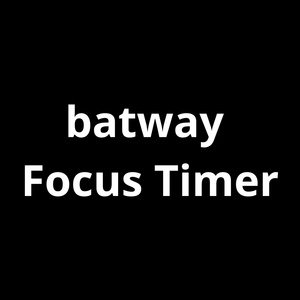
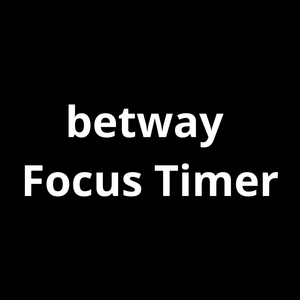
Rebrand to Betway, fix mobile layout, add portrait orientation for Android/Xiaomi

Changed region(s): [[0.21, 0.36, 0.75, 0.48]]

diff --git a/css/tailwind.css b/css/tailwind.css
@@ -1,1 +1,1 @@
-*,:after,:before{--tw-border-spacing-x:0;--tw-border-spacing-y:0;--tw-translate-x:0;--tw-translate-y:0;--tw-rotate:0;--tw-skew-x:0;--tw-skew-y:0;--tw-scale-x:1;--tw-scale-y:1;--tw-pan-x: ;--tw-pan-y: ;--tw-pinch-zoom: ;--tw-scroll-snap-strictness:proximity;--tw-gradient-from-position: ;--tw-gradient-via-position: ;--tw-gradient-to-position: ;--tw-ordinal: ;--tw-slashed-zero: ;--tw-numeric-figure: ;--tw-numeric-spacing: ;--tw-numeric-fraction: ;--tw-ring-inset: ;--tw-ring-offset-width:0px;--tw-ring-offset-color:#fff;--tw-ring-color:rgba(59,130,246,.5);--tw-ring-offset-shadow:0 0 #0000;--tw-ring-shadow:0 0 #0000;--tw-shadow:0 0 #0000;--tw-shadow-colored:0 0 #0000;--tw-blur: ;--tw-brightness: ;--tw-contrast: ;--tw-grayscale: ;--tw-hue-rotate: ;--tw-invert: ;--tw-saturate: ;--tw-sepia: ;--tw-drop-shadow: ;--tw-backdrop-blur: ;--tw-backdrop-brightness: ;--tw-backdrop-contrast: ;--tw-backdrop-grayscale: ;--tw-backdrop-hue-rotate: ;--tw-backdrop-invert: ;--tw-backdrop-opacity: ;--tw-backdrop-saturate: ;--tw-backdrop-sepia: ;--tw-contain-size: ;--tw-contain-layout: ;--tw-contain-paint: ;--tw-contain-style: }::backdrop{--tw-border-spacing-x:0;--tw-border-spacing-y:0;--tw-translate-x:0;--tw-translate-y:0;--tw-rotate:0;--tw-skew-x:0;--tw-skew-y:0;--tw-scale-x:1;--tw-scale-y:1;--tw-pan-x: ;--tw-pan-y: ;--tw-pinch-zoom: ;--tw-scroll-snap-strictness:proximity;--tw-gradient-from-position: ;--tw-gradient-via-position: ;--tw-gradient-to-position: ;--tw-ordinal: ;--tw-slashed-zero: ;--tw-numeric-figure: ;--tw-numeric-spacing: ;--tw-numeric-fraction: ;--tw-ring-inset: ;--tw-ring-offset-width:0px;--tw-ring-offset-color:#fff;--tw-ring-color:rgba(59,130,246,.5);--tw-ring-offset-shadow:0 0 #0000;--tw-ring-shadow:0 0 #0000;--tw-shadow:0 0 #0000;--tw-shadow-colored:0 0 #0000;--tw-blur: ;--tw-brightness: ;--tw-contrast: ;--tw-grayscale: ;--tw-hue-rotate: ;--tw-invert: ;--tw-saturate: ;--tw-sepia: ;--tw-drop-shadow: ;--tw-backdrop-blur: ;--tw-backdrop-brightness: ;--tw-backdrop-contrast: ;--tw-backdrop-grayscale: ;--tw-backdrop-hue-rotate: ;--tw-backdrop-invert: ;--tw-backdrop-opacity: ;--tw-backdrop-saturate: ;--tw-backdrop-sepia: ;--tw-contain-size: ;--tw-contain-layout: ;--tw-contain-paint: ;--tw-contain-style: }/*! tailwindcss v3.4.18 | MIT License | https://tailwindcss.com*/*,:after,:before{box-sizing:border-box;border:0 solid #e5e7eb}:after,:before{--tw-content:""}:host,html{line-height:1.5;-webkit-text-size-adjust:100%;-moz-tab-size:4;-o-tab-size:4;tab-size:4;font-family:ui-sans-serif,system-ui,sans-serif,Apple Color Emoji,Segoe UI Emoji,Segoe UI Symbol,Noto Color Emoji;font-feature-settings:normal;font-variation-settings:normal;-webkit-tap-highlight-color:transparent}body{margin:0;line-height:inherit}hr{height:0;color:inherit;border-top-width:1px}abbr:where([title]){-webkit-text-decoration:underline dotted;text-decoration:underline dotted}h1,h2,h3,h4,h5,h6{font-size:inherit;font-weight:inherit}a{color:inherit;text-decoration:inherit}b,strong{font-weight:bolder}code,kbd,pre,samp{font-family:ui-monospace,SFMono-Regular,Menlo,Monaco,Consolas,Liberation Mono,Courier New,monospace;font-feature-settings:normal;font-variation-settings:normal;font-size:1em}small{font-size:80%}sub,sup{font-size:75%;line-height:0;position:relative;vertical-align:baseline}sub{bottom:-.25em}sup{top:-.5em}table{text-indent:0;border-color:inherit;border-collapse:collapse}button,input,optgroup,select,textarea{font-family:inherit;font-feature-settings:inherit;font-variation-settings:inherit;font-size:100%;font-weight:inherit;line-height:inherit;letter-spacing:inherit;color:inherit;margin:0;padding:0}button,select{text-transform:none}button,input:where([type=button]),input:where([type=reset]),input:where([type=submit]){-webkit-appearance:button;background-color:transparent;background-image:none}:-moz-focusring{outline:auto}:-moz-ui-invalid{box-shadow:none}progress{vertical-align:baseline}::-webkit-inner-spin-button,::-webkit-outer-spin-button{height:auto}[type=search]{-webkit-appearance:textfield;outline-offset:-2px}::-webkit-search-decoration{-webkit-appearance:none}::-webkit-file-upload-button{-webkit-appearance:button;font:inherit}summary{display:list-item}blockquote,dd,dl,figure,h1,h2,h3,h4,h5,h6,hr,p,pre{margin:0}fieldset{margin:0}fieldset,legend{padding:0}menu,ol,ul{list-style:none;margin:0;padding:0}dialog{padding:0}textarea{resize:vertical}input::-moz-placeholder,textarea::-moz-placeholder{opacity:1;color:#9ca3af}input::placeholder,textarea::placeholder{opacity:1;color:#9ca3af}[role=button],button{cursor:pointer}:disabled{cursor:default}audio,canvas,embed,iframe,img,object,svg,video{display:block;vertical-align:middle}img,video{max-width:100%;height:auto}[hidden]:where(:not([hidden=until-found])){display:none}.container{width:100%}@media (min-width:640px){.container{max-width:640px}}@media (min-width:768px){.container{max-width:768px}}@media (min-width:1024px){.container{max-width:1024px}}@media (min-width:1280px){.container{max-width:1280px}}@media (min-width:1536px){.container{max-width:1536px}}.visible{visibility:visible}.fixed{position:fixed}.absolute{position:absolute}.relative{position:relative}.inset-0{inset:0}.right-4{right:1rem}.top-4{top:1rem}.z-50{z-index:50}.col-span-12{grid-column:span 12/span 12}.mx-auto{margin-left:auto;margin-right:auto}.mb-1{margin-bottom:.25rem}.mb-2{margin-bottom:.5rem}.mb-3{margin-bottom:.75rem}.mb-4{margin-bottom:1rem}.mb-6{margin-bottom:1.5rem}.mb-8{margin-bottom:2rem}.mr-2{margin-right:.5rem}.mt-0\.5{margin-top:.125rem}.mt-4{margin-top:1rem}.mt-6{margin-top:1.5rem}.mt-8{margin-top:2rem}.block{display:block}.inline-block{display:inline-block}.flex{display:flex}.grid{display:grid}.hidden{display:none}.h-10{height:2.5rem}.h-3{height:.75rem}.h-6{height:1.5rem}.h-64{height:16rem}.h-8{height:2rem}.min-h-screen{min-height:100vh}.w-10{width:2.5rem}.w-16{width:4rem}.w-3{width:.75rem}.w-6{width:1.5rem}.w-64{width:16rem}.w-8{width:2rem}.w-full{width:100%}.max-w-4xl{max-width:56rem}.max-w-7xl{max-width:80rem}.max-w-md{max-width:28rem}.flex-shrink-0{flex-shrink:0}.transform{transform:translate(var(--tw-translate-x),var(--tw-translate-y)) rotate(var(--tw-rotate)) skewX(var(--tw-skew-x)) skewY(var(--tw-skew-y)) scaleX(var(--tw-scale-x)) scaleY(var(--tw-scale-y))}.grid-cols-1{grid-template-columns:repeat(1,minmax(0,1fr))}.grid-cols-12{grid-template-columns:repeat(12,minmax(0,1fr))}.flex-col{flex-direction:column}.flex-wrap{flex-wrap:wrap}.items-start{align-items:flex-start}.items-center{align-items:center}.justify-center{justify-content:center}.justify-between{justify-content:space-between}.gap-4{gap:1rem}.gap-6{gap:1.5rem}.gap-8{gap:2rem}.space-x-1>:not([hidden])~:not([hidden]){--tw-space-x-reverse:0;margin-right:calc(.25rem*var(--tw-space-x-reverse));margin-left:calc(.25rem*(1 - var(--tw-space-x-reverse)))}.space-x-2>:not([hidden])~:not([hidden]){--tw-space-x-reverse:0;margin-right:calc(.5rem*var(--tw-space-x-reverse));margin-left:calc(.5rem*(1 - var(--tw-space-x-reverse)))}.space-x-3>:not([hidden])~:not([hidden]){--tw-space-x-reverse:0;margin-right:calc(.75rem*var(--tw-space-x-reverse));margin-left:calc(.75rem*(1 - var(--tw-space-x-reverse)))}.space-x-4>:not([hidden])~:not([hidden]){--tw-space-x-reverse:0;margin-right:calc(1rem*var(--tw-space-x-reverse));margin-left:calc(1rem*(1 - var(--tw-space-x-reverse)))}.space-y-1>:not([hidden])~:not([hidden]){--tw-space-y-reverse:0;margin-top:calc(.25rem*(1 - var(--tw-space-y-reverse)));margin-bottom:calc(.25rem*var(--tw-space-y-reverse))}.space-y-2>:not([hidden])~:not([hidden]){--tw-space-y-reverse:0;margin-top:calc(.5rem*(1 - var(--tw-space-y-reverse)));margin-bottom:calc(.5rem*var(--tw-space-y-reverse))}.space-y-3>:not([hidden])~:not([hidden]){--tw-space-y-reverse:0;margin-top:calc(.75rem*(1 - var(--tw-space-y-reverse)));margin-bottom:calc(.75rem*var(--tw-space-y-reverse))}.space-y-4>:not([hidden])~:not([hidden]){--tw-space-y-reverse:0;margin-top:calc(1rem*(1 - var(--tw-space-y-reverse)));margin-bottom:calc(1rem*var(--tw-space-y-reverse))}.space-y-6>:not([hidden])~:not([hidden]){--tw-space-y-reverse:0;margin-top:calc(1.5rem*(1 - var(--tw-space-y-reverse)));margin-bottom:calc(1.5rem*var(--tw-space-y-reverse))}.rounded{border-radius:.25rem}.rounded-full{border-radius:9999px}.rounded-lg{border-radius:.5rem}.rounded-xl{border-radius:.75rem}.border{border-width:1px}.border-2{border-width:2px}.border-b{border-bottom-width:1px}.border-t{border-top-width:1px}.border-gray-600{--tw-border-opacity:1;border-color:rgb(75 85 99/var(--tw-border-opacity,1))}.border-gray-700{--tw-border-opacity:1;border-color:rgb(55 65 81/var(--tw-border-opacity,1))}.border-neon-green\/30{border-color:rgba(16,185,129,.3)}.border-transparent{border-color:transparent}.border-white{--tw-border-opacity:1;border-color:rgb(255 255 255/var(--tw-border-opacity,1))}.bg-black{--tw-bg-opacity:1;background-color:rgb(0 0 0/var(--tw-bg-opacity,1))}.bg-gray-700{--tw-bg-opacity:1;background-color:rgb(55 65 81/var(--tw-bg-opacity,1))}.bg-gray-800{--tw-bg-opacity:1;background-color:rgb(31 41 55/var(--tw-bg-opacity,1))}.bg-gray-900{--tw-bg-opacity:1;background-color:rgb(17 24 39/var(--tw-bg-opacity,1))}.bg-neon-blue{--tw-bg-opacity:1;background-color:rgb(59 130 246/var(--tw-bg-opacity,1))}.bg-neon-blue\/20{background-color:rgba(59,130,246,.2)}.bg-neon-green{--tw-bg-opacity:1;background-color:rgb(16 185 129/var(--tw-bg-opacity,1))}.bg-neon-green\/10{background-color:rgba(16,185,129,.1)}.bg-neon-green\/20{background-color:rgba(16,185,129,.2)}.bg-neon-purple{--tw-bg-opacity:1;background-color:rgb(139 92 246/var(--tw-bg-opacity,1))}.bg-neon-purple\/20{background-color:rgba(139,92,246,.2)}.bg-red-500{--tw-bg-opacity:1;background-color:rgb(239 68 68/var(--tw-bg-opacity,1))}.bg-yellow-500{--tw-bg-opacity:1;background-color:rgb(234 179 8/var(--tw-bg-opacity,1))}.bg-opacity-75{--tw-bg-opacity:0.75}.bg-gradient-to-br{background-image:linear-gradient(to bottom right,var(--tw-gradient-stops))}.bg-gradient-to-r{background-image:linear-gradient(to right,var(--tw-gradient-stops))}.from-gray-600{--tw-gradient-from:#4b5563 var(--tw-gradient-from-position);--tw-gradient-to:rgba(75,85,99,0) var(--tw-gradient-to-position);--tw-gradient-stops:var(--tw-gradient-from),var(--tw-gradient-to)}.from-gray-900{--tw-gradient-from:#111827 var(--tw-gradient-from-position);--tw-gradient-to:rgba(17,24,39,0) var(--tw-gradient-to-position);--tw-gradient-stops:var(--tw-gradient-from),var(--tw-gradient-to)}.from-neon-blue{--tw-gradient-from:#3b82f6 var(--tw-gradient-from-position);--tw-gradient-to:rgba(59,130,246,0) var(--tw-gradient-to-position);--tw-gradient-stops:var(--tw-gradient-from),var(--tw-gradient-to)}.from-neon-green{--tw-gradient-from:#10b981 var(--tw-gradient-from-position);--tw-gradient-to:rgba(16,185,129,0) var(--tw-gradient-to-position);--tw-gradient-stops:var(--tw-gradient-from),var(--tw-gradient-to)}.from-red-500{--tw-gradient-from:#ef4444 var(--tw-gradient-from-position);--tw-gradient-to:rgba(239,68,68,0) var(--tw-gradient-to-position);--tw-gradient-stops:var(--tw-gradient-from),var(--tw-gradient-to)}.via-gray-800{--tw-gradient-to:rgba(31,41,55,0) var(--tw-gradient-to-position);--tw-gradient-stops:var(--tw-gradient-from),#1f2937 var(--tw-gradient-via-position),var(--tw-gradient-to)}.to-gray-700{--tw-gradient-to:#374151 var(--tw-gradient-to-position)}.to-gray-900{--tw-gradient-to:#111827 var(--tw-gradient-to-position)}.to-green-600{--tw-gradient-to:#16a34a var(--tw-gradient-to-position)}.to-neon-blue{--tw-gradient-to:#3b82f6 var(--tw-gradient-to-position)}.to-purple-600{--tw-gradient-to:#9333ea var(--tw-gradient-to-position)}.to-red-600{--tw-gradient-to:#dc2626 var(--tw-gradient-to-position)}.p-4{padding:1rem}.p-6{padding:1.5rem}.p-8{padding:2rem}.px-2{padding-left:.5rem;padding-right:.5rem}.px-3{padding-left:.75rem;padding-right:.75rem}.px-4{padding-left:1rem;padding-right:1rem}.px-6{padding-left:1.5rem;padding-right:1.5rem}.px-8{padding-left:2rem;padding-right:2rem}.py-1{padding-top:.25rem;padding-bottom:.25rem}.py-12{padding-top:3rem;padding-bottom:3rem}.py-2{padding-top:.5rem;padding-bottom:.5rem}.py-3{padding-top:.75rem;padding-bottom:.75rem}.py-4{padding-top:1rem;padding-bottom:1rem}.py-6{padding-top:1.5rem;padding-bottom:1.5rem}.py-8{padding-top:2rem;padding-bottom:2rem}.pt-4{padding-top:1rem}.text-center{text-align:center}.font-inter{font-family:Inter,sans-serif}.text-2xl{font-size:1.5rem;line-height:2rem}.text-3xl{font-size:1.875rem;line-height:2.25rem}.text-4xl{font-size:2.25rem;line-height:2.5rem}.text-6xl{font-size:3.75rem;line-height:1}.text-lg{font-size:1.125rem;line-height:1.75rem}.text-sm{font-size:.875rem;line-height:1.25rem}.text-xl{font-size:1.25rem;line-height:1.75rem}.text-xs{font-size:.75rem;line-height:1rem}.font-black{font-weight:900}.font-bold{font-weight:700}.font-medium{font-weight:500}.font-semibold{font-weight:600}.leading-relaxed{line-height:1.625}.text-gray-300{--tw-text-opacity:1;color:rgb(209 213 219/var(--tw-text-opacity,1))}.text-gray-400{--tw-text-opacity:1;color:rgb(156 163 175/var(--tw-text-opacity,1))}.text-gray-900{--tw-text-opacity:1;color:rgb(17 24 39/var(--tw-text-opacity,1))}.text-neon-blue{--tw-text-opacity:1;color:rgb(59 130 246/var(--tw-text-opacity,1))}.text-neon-green{--tw-text-opacity:1;color:rgb(16 185 129/var(--tw-text-opacity,1))}.text-neon-purple{--tw-text-opacity:1;color:rgb(139 92 246/var(--tw-text-opacity,1))}.text-red-500{--tw-text-opacity:1;color:rgb(239 68 68/var(--tw-text-opacity,1))}.text-white{--tw-text-opacity:1;color:rgb(255 255 255/var(--tw-text-opacity,1))}.text-yellow-500{--tw-text-opacity:1;color:rgb(234 179 8/var(--tw-text-opacity,1))}.underline{text-decoration-line:underline}.opacity-100{opacity:1}.opacity-50{opacity:.5}.ring{--tw-ring-offset-shadow:var(--tw-ring-inset) 0 0 0 var(--tw-ring-offset-width) var(--tw-ring-offset-color);--tw-ring-shadow:var(--tw-ring-inset) 0 0 0 calc(3px + var(--tw-ring-offset-width)) var(--tw-ring-color);box-shadow:var(--tw-ring-offset-shadow),var(--tw-ring-shadow),var(--tw-shadow,0 0 #0000)}.transition-all{transition-property:all;transition-timing-function:cubic-bezier(.4,0,.2,1);transition-duration:.15s}.transition-colors{transition-property:color,background-color,border-color,text-decoration-color,fill,stroke;transition-timing-function:cubic-bezier(.4,0,.2,1);transition-duration:.15s}::-webkit-scrollbar{display:none}body{font-family:Inter,sans-serif}.neon-glow{box-shadow:0 0 20px rgba(34,197,94,.3)}.neon-text{text-shadow:0 0 10px rgba(34,197,94,.5)}.progress-ring{transform:rotate(-90deg);transition:stroke-dashoffset .3s ease}.timer-animation{animation:pulse 2s infinite}@keyframes pulse{0%,to{transform:scale(1)}50%{transform:scale(1.05)}}.gradient-border{background:linear-gradient(45deg,#10b981,#3b82f6);padding:2px;border-radius:12px}.gradient-border-content{background:#111827;border-radius:10px}.hover\:scale-105:hover{--tw-scale-x:1.05;--tw-scale-y:1.05;transform:translate(var(--tw-translate-x),var(--tw-translate-y)) rotate(var(--tw-rotate)) skewX(var(--tw-skew-x)) skewY(var(--tw-skew-y)) scaleX(var(--tw-scale-x)) scaleY(var(--tw-scale-y))}.hover\:border-white:hover{--tw-border-opacity:1;border-color:rgb(255 255 255/var(--tw-border-opacity,1))}.hover\:bg-gray-600:hover{--tw-bg-opacity:1;background-color:rgb(75 85 99/var(--tw-bg-opacity,1))}.hover\:bg-green-600:hover{--tw-bg-opacity:1;background-color:rgb(22 163 74/var(--tw-bg-opacity,1))}.hover\:from-blue-600:hover{--tw-gradient-from:#2563eb var(--tw-gradient-from-position);--tw-gradient-to:rgba(37,99,235,0) var(--tw-gradient-to-position);--tw-gradient-stops:var(--tw-gradient-from),var(--tw-gradient-to)}.hover\:from-gray-700:hover{--tw-gradient-from:#374151 var(--tw-gradient-from-position);--tw-gradient-to:rgba(55,65,81,0) var(--tw-gradient-to-position);--tw-gradient-stops:var(--tw-gradient-from),var(--tw-gradient-to)}.hover\:from-green-600:hover{--tw-gradient-from:#16a34a var(--tw-gradient-from-position);--tw-gradient-to:rgba(22,163,74,0) var(--tw-gradient-to-position);--tw-gradient-stops:var(--tw-gradient-from),var(--tw-gradient-to)}.hover\:from-red-600:hover{--tw-gradient-from:#dc2626 var(--tw-gradient-from-position);--tw-gradient-to:rgba(220,38,38,0) var(--tw-gradient-to-position);--tw-gradient-stops:var(--tw-gradient-from),var(--tw-gradient-to)}.hover\:to-gray-800:hover{--tw-gradient-to:#1f2937 var(--tw-gradient-to-position)}.hover\:to-green-700:hover{--tw-gradient-to:#15803d var(--tw-gradient-to-position)}.hover\:to-purple-700:hover{--tw-gradient-to:#7e22ce var(--tw-gradient-to-position)}.hover\:to-red-700:hover{--tw-gradient-to:#b91c1c var(--tw-gradient-to-position)}.hover\:text-neon-green:hover{--tw-text-opacity:1;color:rgb(16 185 129/var(--tw-text-opacity,1))}.hover\:text-white:hover{--tw-text-opacity:1;color:rgb(255 255 255/var(--tw-text-opacity,1))}.hover\:underline:hover{text-decoration-line:underline}.focus\:border-neon-green:focus{--tw-border-opacity:1;border-color:rgb(16 185 129/var(--tw-border-opacity,1))}.focus\:outline-none:focus{outline:2px solid transparent;outline-offset:2px}@media (min-width:768px){.md\:mb-0{margin-bottom:0}.md\:grid-cols-2{grid-template-columns:repeat(2,minmax(0,1fr))}.md\:flex-row{flex-direction:row}}@media (min-width:1024px){.lg\:col-span-4{grid-column:span 4/span 4}.lg\:col-span-8{grid-column:span 8/span 8}}
+*,:after,:before{--tw-border-spacing-x:0;--tw-border-spacing-y:0;--tw-translate-x:0;--tw-translate-y:0;--tw-rotate:0;--tw-skew-x:0;--tw-skew-y:0;--tw-scale-x:1;--tw-scale-y:1;--tw-pan-x: ;--tw-pan-y: ;--tw-pinch-zoom: ;--tw-scroll-snap-strictness:proximity;--tw-gradient-from-position: ;--tw-gradient-via-position: ;--tw-gradient-to-position: ;--tw-ordinal: ;--tw-slashed-zero: ;--tw-numeric-figure: ;--tw-numeric-spacing: ;--tw-numeric-fraction: ;--tw-ring-inset: ;--tw-ring-offset-width:0px;--tw-ring-offset-color:#fff;--tw-ring-color:rgba(59,130,246,.5);--tw-ring-offset-shadow:0 0 #0000;--tw-ring-shadow:0 0 #0000;--tw-shadow:0 0 #0000;--tw-shadow-colored:0 0 #0000;--tw-blur: ;--tw-brightness: ;--tw-contrast: ;--tw-grayscale: ;--tw-hue-rotate: ;--tw-invert: ;--tw-saturate: ;--tw-sepia: ;--tw-drop-shadow: ;--tw-backdrop-blur: ;--tw-backdrop-brightness: ;--tw-backdrop-contrast: ;--tw-backdrop-grayscale: ;--tw-backdrop-hue-rotate: ;--tw-backdrop-invert: ;--tw-backdrop-opacity: ;--tw-backdrop-saturate: ;--tw-backdrop-sepia: ;--tw-contain-size: ;--tw-contain-layout: ;--tw-contain-paint: ;--tw-contain-style: }::backdrop{--tw-border-spacing-x:0;--tw-border-spacing-y:0;--tw-translate-x:0;--tw-translate-y:0;--tw-rotate:0;--tw-skew-x:0;--tw-skew-y:0;--tw-scale-x:1;--tw-scale-y:1;--tw-pan-x: ;--tw-pan-y: ;--tw-pinch-zoom: ;--tw-scroll-snap-strictness:proximity;--tw-gradient-from-position: ;--tw-gradient-via-position: ;--tw-gradient-to-position: ;--tw-ordinal: ;--tw-slashed-zero: ;--tw-numeric-figure: ;--tw-numeric-spacing: ;--tw-numeric-fraction: ;--tw-ring-inset: ;--tw-ring-offset-width:0px;--tw-ring-offset-color:#fff;--tw-ring-color:rgba(59,130,246,.5);--tw-ring-offset-shadow:0 0 #0000;--tw-ring-shadow:0 0 #0000;--tw-shadow:0 0 #0000;--tw-shadow-colored:0 0 #0000;--tw-blur: ;--tw-brightness: ;--tw-contrast: ;--tw-grayscale: ;--tw-hue-rotate: ;--tw-invert: ;--tw-saturate: ;--tw-sepia: ;--tw-drop-shadow: ;--tw-backdrop-blur: ;--tw-backdrop-brightness: ;--tw-backdrop-contrast: ;--tw-backdrop-grayscale: ;--tw-backdrop-hue-rotate: ;--tw-backdrop-invert: ;--tw-backdrop-opacity: ;--tw-backdrop-saturate: ;--tw-backdrop-sepia: ;--tw-contain-size: ;--tw-contain-layout: ;--tw-contain-paint: ;--tw-contain-style: }/*! tailwindcss v3.4.18 | MIT License | https://tailwindcss.com*/*,:after,:before{box-sizing:border-box;border:0 solid #e5e7eb}:after,:before{--tw-content:""}:host,html{line-height:1.5;-webkit-text-size-adjust:100%;-moz-tab-size:4;-o-tab-size:4;tab-size:4;font-family:ui-sans-serif,system-ui,sans-serif,Apple Color Emoji,Segoe UI Emoji,Segoe UI Symbol,Noto Color Emoji;font-feature-settings:normal;font-variation-settings:normal;-webkit-tap-highlight-color:transparent}body{margin:0;line-height:inherit}hr{height:0;color:inherit;border-top-width:1px}abbr:where([title]){-webkit-text-decoration:underline dotted;text-decoration:underline dotted}h1,h2,h3,h4,h5,h6{font-size:inherit;font-weight:inherit}a{color:inherit;text-decoration:inherit}b,strong{font-weight:bolder}code,kbd,pre,samp{font-family:ui-monospace,SFMono-Regular,Menlo,Monaco,Consolas,Liberation Mono,Courier New,monospace;font-feature-settings:normal;font-variation-settings:normal;font-size:1em}small{font-size:80%}sub,sup{font-size:75%;line-height:0;position:relative;vertical-align:baseline}sub{bottom:-.25em}sup{top:-.5em}table{text-indent:0;border-color:inherit;border-collapse:collapse}button,input,optgroup,select,textarea{font-family:inherit;font-feature-settings:inherit;font-variation-settings:inherit;font-size:100%;font-weight:inherit;line-height:inherit;letter-spacing:inherit;color:inherit;margin:0;padding:0}button,select{text-transform:none}button,input:where([type=button]),input:where([type=reset]),input:where([type=submit]){-webkit-appearance:button;background-color:transparent;background-image:none}:-moz-focusring{outline:auto}:-moz-ui-invalid{box-shadow:none}progress{vertical-align:baseline}::-webkit-inner-spin-button,::-webkit-outer-spin-button{height:auto}[type=search]{-webkit-appearance:textfield;outline-offset:-2px}::-webkit-search-decoration{-webkit-appearance:none}::-webkit-file-upload-button{-webkit-appearance:button;font:inherit}summary{display:list-item}blockquote,dd,dl,figure,h1,h2,h3,h4,h5,h6,hr,p,pre{margin:0}fieldset{margin:0}fieldset,legend{padding:0}menu,ol,ul{list-style:none;margin:0;padding:0}dialog{padding:0}textarea{resize:vertical}input::-moz-placeholder,textarea::-moz-placeholder{opacity:1;color:#9ca3af}input::placeholder,textarea::placeholder{opacity:1;color:#9ca3af}[role=button],button{cursor:pointer}:disabled{cursor:default}audio,canvas,embed,iframe,img,object,svg,video{display:block;vertical-align:middle}img,video{max-width:100%;height:auto}[hidden]:where(:not([hidden=until-found])){display:none}.container{width:100%}@media (min-width:640px){.container{max-width:640px}}@media (min-width:768px){.container{max-width:768px}}@media (min-width:1024px){.container{max-width:1024px}}@media (min-width:1280px){.container{max-width:1280px}}@media (min-width:1536px){.container{max-width:1536px}}.visible{visibility:visible}.fixed{position:fixed}.absolute{position:absolute}.relative{position:relative}.inset-0{inset:0}.right-4{right:1rem}.top-4{top:1rem}.z-50{z-index:50}.col-span-12{grid-column:span 12/span 12}.mx-auto{margin-left:auto;margin-right:auto}.mb-1{margin-bottom:.25rem}.mb-2{margin-bottom:.5rem}.mb-3{margin-bottom:.75rem}.mb-4{margin-bottom:1rem}.mb-6{margin-bottom:1.5rem}.mb-8{margin-bottom:2rem}.mr-2{margin-right:.5rem}.mt-0\.5{margin-top:.125rem}.mt-4{margin-top:1rem}.mt-6{margin-top:1.5rem}.mt-8{margin-top:2rem}.block{display:block}.inline-block{display:inline-block}.flex{display:flex}.grid{display:grid}.hidden{display:none}.h-16{height:4rem}.h-3{height:.75rem}.h-6{height:1.5rem}.h-64{height:16rem}.h-8{height:2rem}.min-h-screen{min-height:100vh}.w-16{width:4rem}.w-3{width:.75rem}.w-6{width:1.5rem}.w-64{width:16rem}.w-8{width:2rem}.w-full{width:100%}.max-w-4xl{max-width:56rem}.max-w-7xl{max-width:80rem}.max-w-md{max-width:28rem}.flex-shrink-0{flex-shrink:0}.transform{transform:translate(var(--tw-translate-x),var(--tw-translate-y)) rotate(var(--tw-rotate)) skewX(var(--tw-skew-x)) skewY(var(--tw-skew-y)) scaleX(var(--tw-scale-x)) scaleY(var(--tw-scale-y))}.grid-cols-1{grid-template-columns:repeat(1,minmax(0,1fr))}.grid-cols-12{grid-template-columns:repeat(12,minmax(0,1fr))}.flex-col{flex-direction:column}.flex-wrap{flex-wrap:wrap}.items-start{align-items:flex-start}.items-center{align-items:center}.justify-center{justify-content:center}.justify-between{justify-content:space-between}.gap-4{gap:1rem}.gap-6{gap:1.5rem}.space-x-1>:not([hidden])~:not([hidden]){--tw-space-x-reverse:0;margin-right:calc(.25rem*var(--tw-space-x-reverse));margin-left:calc(.25rem*(1 - var(--tw-space-x-reverse)))}.space-x-2>:not([hidden])~:not([hidden]){--tw-space-x-reverse:0;margin-right:calc(.5rem*var(--tw-space-x-reverse));margin-left:calc(.5rem*(1 - var(--tw-space-x-reverse)))}.space-x-3>:not([hidden])~:not([hidden]){--tw-space-x-reverse:0;margin-right:calc(.75rem*var(--tw-space-x-reverse));margin-left:calc(.75rem*(1 - var(--tw-space-x-reverse)))}.space-x-4>:not([hidden])~:not([hidden]){--tw-space-x-reverse:0;margin-right:calc(1rem*var(--tw-space-x-reverse));margin-left:calc(1rem*(1 - var(--tw-space-x-reverse)))}.space-y-1>:not([hidden])~:not([hidden]){--tw-space-y-reverse:0;margin-top:calc(.25rem*(1 - var(--tw-space-y-reverse)));margin-bottom:calc(.25rem*var(--tw-space-y-reverse))}.space-y-2>:not([hidden])~:not([hidden]){--tw-space-y-reverse:0;margin-top:calc(.5rem*(1 - var(--tw-space-y-reverse)));margin-bottom:calc(.5rem*var(--tw-space-y-reverse))}.space-y-3>:not([hidden])~:not([hidden]){--tw-space-y-reverse:0;margin-top:calc(.75rem*(1 - var(--tw-space-y-reverse)));margin-bottom:calc(.75rem*var(--tw-space-y-reverse))}.space-y-4>:not([hidden])~:not([hidden]){--tw-space-y-reverse:0;margin-top:calc(1rem*(1 - var(--tw-space-y-reverse)));margin-bottom:calc(1rem*var(--tw-space-y-reverse))}.space-y-6>:not([hidden])~:not([hidden]){--tw-space-y-reverse:0;margin-top:calc(1.5rem*(1 - var(--tw-space-y-reverse)));margin-bottom:calc(1.5rem*var(--tw-space-y-reverse))}.overflow-x-hidden{overflow-x:hidden}.rounded{border-radius:.25rem}.rounded-full{border-radius:9999px}.rounded-lg{border-radius:.5rem}.rounded-xl{border-radius:.75rem}.border{border-width:1px}.border-2{border-width:2px}.border-b{border-bottom-width:1px}.border-t{border-top-width:1px}.border-gray-600{--tw-border-opacity:1;border-color:rgb(75 85 99/var(--tw-border-opacity,1))}.border-gray-700{--tw-border-opacity:1;border-color:rgb(55 65 81/var(--tw-border-opacity,1))}.border-neon-green\/30{border-color:rgba(16,185,129,.3)}.border-transparent{border-color:transparent}.border-white{--tw-border-opacity:1;border-color:rgb(255 255 255/var(--tw-border-opacity,1))}.bg-black{--tw-bg-opacity:1;background-color:rgb(0 0 0/var(--tw-bg-opacity,1))}.bg-gray-700{--tw-bg-opacity:1;background-color:rgb(55 65 81/var(--tw-bg-opacity,1))}.bg-gray-800{--tw-bg-opacity:1;background-color:rgb(31 41 55/var(--tw-bg-opacity,1))}.bg-neon-blue{--tw-bg-opacity:1;background-color:rgb(59 130 246/var(--tw-bg-opacity,1))}.bg-neon-blue\/20{background-color:rgba(59,130,246,.2)}.bg-neon-green{--tw-bg-opacity:1;background-color:rgb(16 185 129/var(--tw-bg-opacity,1))}.bg-neon-green\/10{background-color:rgba(16,185,129,.1)}.bg-neon-green\/20{background-color:rgba(16,185,129,.2)}.bg-neon-purple{--tw-bg-opacity:1;background-color:rgb(139 92 246/var(--tw-bg-opacity,1))}.bg-neon-purple\/20{background-color:rgba(139,92,246,.2)}.bg-red-500{--tw-bg-opacity:1;background-color:rgb(239 68 68/var(--tw-bg-opacity,1))}.bg-yellow-500{--tw-bg-opacity:1;background-color:rgb(234 179 8/var(--tw-bg-opacity,1))}.bg-opacity-75{--tw-bg-opacity:0.75}.bg-gradient-to-r{background-image:linear-gradient(to right,var(--tw-gradient-stops))}.from-gray-600{--tw-gradient-from:#4b5563 var(--tw-gradient-from-position);--tw-gradient-to:rgba(75,85,99,0) var(--tw-gradient-to-position);--tw-gradient-stops:var(--tw-gradient-from),var(--tw-gradient-to)}.from-neon-blue{--tw-gradient-from:#3b82f6 var(--tw-gradient-from-position);--tw-gradient-to:rgba(59,130,246,0) var(--tw-gradient-to-position);--tw-gradient-stops:var(--tw-gradient-from),var(--tw-gradient-to)}.from-neon-green{--tw-gradient-from:#10b981 var(--tw-gradient-from-position);--tw-gradient-to:rgba(16,185,129,0) var(--tw-gradient-to-position);--tw-gradient-stops:var(--tw-gradient-from),var(--tw-gradient-to)}.from-red-500{--tw-gradient-from:#ef4444 var(--tw-gradient-from-position);--tw-gradient-to:rgba(239,68,68,0) var(--tw-gradient-to-position);--tw-gradient-stops:var(--tw-gradient-from),var(--tw-gradient-to)}.to-gray-700{--tw-gradient-to:#374151 var(--tw-gradient-to-position)}.to-green-600{--tw-gradient-to:#16a34a var(--tw-gradient-to-position)}.to-neon-blue{--tw-gradient-to:#3b82f6 var(--tw-gradient-to-position)}.to-purple-600{--tw-gradient-to:#9333ea var(--tw-gradient-to-position)}.to-red-600{--tw-gradient-to:#dc2626 var(--tw-gradient-to-position)}.p-4{padding:1rem}.p-6{padding:1.5rem}.p-8{padding:2rem}.px-2{padding-left:.5rem;padding-right:.5rem}.px-3{padding-left:.75rem;padding-right:.75rem}.px-4{padding-left:1rem;padding-right:1rem}.px-6{padding-left:1.5rem;padding-right:1.5rem}.px-8{padding-left:2rem;padding-right:2rem}.py-1{padding-top:.25rem;padding-bottom:.25rem}.py-12{padding-top:3rem;padding-bottom:3rem}.py-2{padding-top:.5rem;padding-bottom:.5rem}.py-3{padding-top:.75rem;padding-bottom:.75rem}.py-4{padding-top:1rem;padding-bottom:1rem}.py-6{padding-top:1.5rem;padding-bottom:1.5rem}.py-8{padding-top:2rem;padding-bottom:2rem}.pt-4{padding-top:1rem}.text-center{text-align:center}.font-inter{font-family:Inter,sans-serif}.text-2xl{font-size:1.5rem;line-height:2rem}.text-3xl{font-size:1.875rem;line-height:2.25rem}.text-4xl{font-size:2.25rem;line-height:2.5rem}.text-6xl{font-size:3.75rem;line-height:1}.text-lg{font-size:1.125rem;line-height:1.75rem}.text-sm{font-size:.875rem;line-height:1.25rem}.text-xl{font-size:1.25rem;line-height:1.75rem}.text-xs{font-size:.75rem;line-height:1rem}.font-black{font-weight:900}.font-bold{font-weight:700}.font-medium{font-weight:500}.font-semibold{font-weight:600}.leading-relaxed{line-height:1.625}.text-gray-300{--tw-text-opacity:1;color:rgb(209 213 219/var(--tw-text-opacity,1))}.text-gray-400{--tw-text-opacity:1;color:rgb(156 163 175/var(--tw-text-opacity,1))}.text-gray-900{--tw-text-opacity:1;color:rgb(17 24 39/var(--tw-text-opacity,1))}.text-neon-blue{--tw-text-opacity:1;color:rgb(59 130 246/var(--tw-text-opacity,1))}.text-neon-green{--tw-text-opacity:1;color:rgb(16 185 129/var(--tw-text-opacity,1))}.text-neon-purple{--tw-text-opacity:1;color:rgb(139 92 246/var(--tw-text-opacity,1))}.text-red-500{--tw-text-opacity:1;color:rgb(239 68 68/var(--tw-text-opacity,1))}.text-white{--tw-text-opacity:1;color:rgb(255 255 255/var(--tw-text-opacity,1))}.text-yellow-500{--tw-text-opacity:1;color:rgb(234 179 8/var(--tw-text-opacity,1))}.underline{text-decoration-line:underline}.opacity-100{opacity:1}.opacity-50{opacity:.5}.ring{--tw-ring-offset-shadow:var(--tw-ring-inset) 0 0 0 var(--tw-ring-offset-width) var(--tw-ring-offset-color);--tw-ring-shadow:var(--tw-ring-inset) 0 0 0 calc(3px + var(--tw-ring-offset-width)) var(--tw-ring-color);box-shadow:var(--tw-ring-offset-shadow),var(--tw-ring-shadow),var(--tw-shadow,0 0 #0000)}.transition-all{transition-property:all;transition-timing-function:cubic-bezier(.4,0,.2,1);transition-duration:.15s}.transition-colors{transition-property:color,background-color,border-color,text-decoration-color,fill,stroke;transition-timing-function:cubic-bezier(.4,0,.2,1);transition-duration:.15s}::-webkit-scrollbar{display:none}body{font-family:Inter,sans-serif}.neon-glow{box-shadow:0 0 20px rgba(34,197,94,.3)}.neon-text{text-shadow:0 0 10px rgba(34,197,94,.5)}.progress-ring{transform:rotate(-90deg);transition:stroke-dashoffset .3s ease}.timer-animation{animation:pulse 2s infinite}@keyframes pulse{0%,to{transform:scale(1)}50%{transform:scale(1.05)}}.gradient-border{background:linear-gradient(45deg,#10b981,#3b82f6);padding:2px;border-radius:12px}.gradient-border-content{background:#111827;border-radius:10px}.hover\:scale-105:hover{--tw-scale-x:1.05;--tw-scale-y:1.05;transform:translate(var(--tw-translate-x),var(--tw-translate-y)) rotate(var(--tw-rotate)) skewX(var(--tw-skew-x)) skewY(var(--tw-skew-y)) scaleX(var(--tw-scale-x)) scaleY(var(--tw-scale-y))}.hover\:border-white:hover{--tw-border-opacity:1;border-color:rgb(255 255 255/var(--tw-border-opacity,1))}.hover\:bg-gray-600:hover{--tw-bg-opacity:1;background-color:rgb(75 85 99/var(--tw-bg-opacity,1))}.hover\:bg-green-600:hover{--tw-bg-opacity:1;background-color:rgb(22 163 74/var(--tw-bg-opacity,1))}.hover\:from-blue-600:hover{--tw-gradient-from:#2563eb var(--tw-gradient-from-position);--tw-gradient-to:rgba(37,99,235,0) var(--tw-gradient-to-position);--tw-gradient-stops:var(--tw-gradient-from),var(--tw-gradient-to)}.hover\:from-gray-700:hover{--tw-gradient-from:#374151 var(--tw-gradient-from-position);--tw-gradient-to:rgba(55,65,81,0) var(--tw-gradient-to-position);--tw-gradient-stops:var(--tw-gradient-from),var(--tw-gradient-to)}.hover\:from-green-600:hover{--tw-gradient-from:#16a34a var(--tw-gradient-from-position);--tw-gradient-to:rgba(22,163,74,0) var(--tw-gradient-to-position);--tw-gradient-stops:var(--tw-gradient-from),var(--tw-gradient-to)}.hover\:from-red-600:hover{--tw-gradient-from:#dc2626 var(--tw-gradient-from-position);--tw-gradient-to:rgba(220,38,38,0) var(--tw-gradient-to-position);--tw-gradient-stops:var(--tw-gradient-from),var(--tw-gradient-to)}.hover\:to-gray-800:hover{--tw-gradient-to:#1f2937 var(--tw-gradient-to-position)}.hover\:to-green-700:hover{--tw-gradient-to:#15803d var(--tw-gradient-to-position)}.hover\:to-purple-700:hover{--tw-gradient-to:#7e22ce var(--tw-gradient-to-position)}.hover\:to-red-700:hover{--tw-gradient-to:#b91c1c var(--tw-gradient-to-position)}.hover\:text-neon-green:hover{--tw-text-opacity:1;color:rgb(16 185 129/var(--tw-text-opacity,1))}.hover\:text-white:hover{--tw-text-opacity:1;color:rgb(255 255 255/var(--tw-text-opacity,1))}.hover\:underline:hover{text-decoration-line:underline}.focus\:border-neon-green:focus{--tw-border-opacity:1;border-color:rgb(16 185 129/var(--tw-border-opacity,1))}.focus\:outline-none:focus{outline:2px solid transparent;outline-offset:2px}@media (min-width:768px){.md\:mb-0{margin-bottom:0}.md\:grid-cols-2{grid-template-columns:repeat(2,minmax(0,1fr))}.md\:flex-row{flex-direction:row}.md\:gap-8{gap:2rem}.md\:px-8{padding-left:2rem;padding-right:2rem}}@media (min-width:1024px){.lg\:col-span-4{grid-column:span 4/span 4}.lg\:col-span-8{grid-column:span 8/span 8}}

diff --git a/index.html b/index.html
@@ -1,11 +1,15 @@
 <!DOCTYPE html>
-<html lang="en">
+<html lang="en" class="overflow-x-hidden">
 <head>
     <meta charset="UTF-8">
-    <meta name="viewport" content="width=device-width, initial-scale=1.0">
+    <meta name="viewport" content="width=device-width, initial-scale=1.0, maximum-scale=1.0, user-scalable=no">
+    <style>
+        html, body { overflow-x: hidden !important; max-width: 100vw !important; }
+        * { box-sizing: border-box; }
+    </style>
     <meta name="theme-color" content="#111827">
     <meta name="description" content="Neon-themed Pomodoro productivity timer">
-    <title>Batway Focus Timer</title>
+    <title>Betway Focus Timer</title>
     
     <!-- Local CSS -->
     <link rel="stylesheet" href="css/tailwind.css">
@@ -19,18 +23,18 @@
     <link rel="icon" type="image/png" sizes="192x192" href="icons/icon-192.png">
     <link rel="apple-touch-icon" href="icons/icon-192.png">
 </head>
-<body class="bg-black text-white font-inter">
+<body class="bg-black text-white font-inter overflow-x-hidden">
 
-    <div id="main-dashboard" class="min-h-screen bg-black">
+    <div id="main-dashboard" class="min-h-screen bg-black overflow-x-hidden">
         
-        <header id="header" class="px-8 py-6 border-b border-gray-700">
+        <header id="header" class="px-4 md:px-8 py-6 border-b border-gray-700">
             <div class="flex justify-center items-center">
-                <img src="icons/batway-Focus-Timer3.png" alt="Batway Focus Timer" class="h-16">
+                <img src="betway Focus Timer logo.png" alt="Betway Focus Timer" class="h-16">
             </div>
         </header>
 
         <!-- About Section -->
-        <section class="px-8 py-6 border-b border-gray-700">
+        <section class="px-4 md:px-8 py-6 border-b border-gray-700">
             <div class="max-w-4xl mx-auto text-center">
                 <h2 class="text-3xl font-black text-white mb-3">
                     Boost Your Productivity with the <span class="text-neon-green">Pomodoro Technique</span>
@@ -60,8 +64,8 @@
             </div>
         </section>
 
-        <main class="px-8 py-8">
-            <div class="grid grid-cols-12 gap-8">
+        <main class="px-4 md:px-8 py-8">
+            <div class="grid grid-cols-12 gap-4 md:gap-8">
                 
                 <div id="timer-section" class="col-span-12 lg:col-span-8">
                     <div class="gradient-border mb-8">
@@ -293,10 +297,10 @@
         </main>
 
         <!-- Footer -->
-        <footer class="border-t border-gray-700 px-8 py-6 mt-8">
+        <footer class="border-t border-gray-700 px-4 md:px-8 py-6 mt-8">
             <div class="max-w-7xl mx-auto">
                 <div class="flex flex-col md:flex-row justify-between items-center text-sm text-gray-400">
-                    <p class="mb-4 md:mb-0">&copy; 2025 Batway Focus Timer. All rights reserved.</p>
+                    <p class="mb-4 md:mb-0">&copy; 2025 Betway Focus Timer. All rights reserved.</p>
                     <div class="flex space-x-4">
                         <a href="privacy-policy.html" class="hover:text-neon-green transition-colors">Privacy Policy</a>
                     </div>

diff --git a/privacy-policy.html b/privacy-policy.html
@@ -1,10 +1,14 @@
 <!DOCTYPE html>
-<html lang="en">
+<html lang="en" class="overflow-x-hidden">
 <head>
     <meta charset="UTF-8">
-    <meta name="viewport" content="width=device-width, initial-scale=1.0">
+    <meta name="viewport" content="width=device-width, initial-scale=1.0, maximum-scale=1.0, user-scalable=no">
+    <style>
+        html, body { overflow-x: hidden !important; max-width: 100vw !important; }
+        * { box-sizing: border-box; }
+    </style>
     <meta name="theme-color" content="#000000">
-    <title>Privacy Policy - Batway Focus Timer</title>
+    <title>Privacy Policy - Betway Focus Timer</title>
     
     <!-- Local CSS -->
     <link rel="stylesheet" href="css/tailwind.css">
@@ -18,7 +22,7 @@
     <link rel="icon" type="image/png" sizes="192x192" href="icons/icon-192.png">
     <link rel="apple-touch-icon" href="icons/icon-192.png">
 </head>
-<body class="bg-black text-white font-inter">
+<body class="bg-black text-white font-inter overflow-x-hidden">
 
     <div class="min-h-screen bg-black">
         
@@ -26,7 +30,7 @@
         <header class="px-8 py-6 border-b border-gray-700">
             <div class="flex justify-between items-center max-w-4xl mx-auto">
                 <div class="flex items-center space-x-3">
-                    <img src="icons/batway-Focus-Timer3.png" alt="Batway Focus Timer" class="h-16">
+                    <img src="betway Focus Timer logo.png" alt="Betway Focus Timer" class="h-16">
                 </div>
                 <a href="index.html" class="px-4 py-2 bg-neon-green hover:bg-green-600 rounded-lg font-semibold transition-colors">
                     <i class="fas fa-arrow-left mr-2"></i>Back to App

diff --git a/service-worker.js b/service-worker.js
@@ -1,4 +1,4 @@
-const CACHE_NAME = 'batway-focus-timer-v9';
+const CACHE_NAME = 'betway-focus-timer-v10';
 const urlsToCache = [
   '/',
   '/index.html',
@@ -19,7 +19,8 @@ const urlsToCache = [
   '/icons/icon-300.png',
   '/icons/icon-512.png',
   '/icons/icon-1024.png',
-  '/icons/batway-Focus-Timer3.png',
+  '/icons/betway-Focus-Timer3.png',
+  '/betway%20Focus%20Timer%20logo.png',
   '/manifest.json'
 ];
 

diff --git a/resize-icons.js b/resize-icons.js
@@ -2,7 +2,7 @@ const sharp = require('sharp');
 const fs = require('fs');
 const path = require('path');
 
-const sourceIcon = path.join(__dirname, 'icons', 'batway-Focus-Timer-1024.png');
+const sourceIcon = path.join(__dirname, 'icons', 'betway Focus Timer (1024 x 1024 px).png');
 const outputDir = path.join(__dirname, 'icons');
 
 // Sizes needed for Microsoft Store
